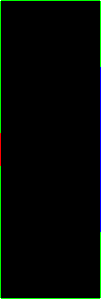
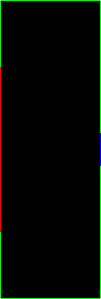
Add more model images

diff --git a/src/Main.cpp b/src/Main.cpp
@@ -33,17 +33,23 @@
  * DONE: (15) Create script "plot_cut.py" to plot the intensity profile along a cut. A straight line should do the job...
  * DONE: (16) In SparseComplexMatrix: Improve plotImage() to export directly a PNG image instead of a heavy PPM file.
  * DONE: (17) In SquareMesh: Create addImage(filename) to import PNG in order to facilitate the mesh creation...
+ * DONE: (18) Arthur 2025-09-04: For the paper, come back with the double waveguide case (with/without absorber), and compute the eigenstate profile
+ *       and the transmission eigenvalue distribution. Test changing the numerical aperture of each of the guides...
  * 
+ * TODO: Perform benchmark simulations (+ comparison with Usadel) for :
+ *      (A) Square waveguide 500x500, 
+ *      (B) Slab transmission 300x900, 
+ *      (C) Slab remission 300x900, 
+ *      (D) Find a double waveguide case with symmetry breaking enhancement... Definition of such system is unclear + Nothing to do with Radiant Field Theory...
  * 
- * (18) Arthur 2025-09-04: For the paper, come back with the double waveguide case (with/without absorber), and compute the eigenstate profile
- *      and the transmission eigenvalue distribution. Test changing the numerical aperture of each of the guides...
  * (19) Arthur 2025-09-04: What happens if we add a non-scattering region in the center of the waveguide ?
  *      We would have D(r) -> infty... What happens in the Usadel equation ?
  *      It would be funny to find a system with transmission eigenstate "opposite" to the average intensity (without shaping). 
  *      Such that maximum of the eigenstate corresponds to the minimum of the average intensity...
  * (20) Do no forget to implement the absorption (holabso != 0) using complex wavenumbers.
  *      Check that the implementation is correct, maybe using the Green function, or the distribution rho(T) (which should match RecurGreen's results)...
- * (21) In Main: Possibly add parallelized taskTransmissionOMP(). Maybe MPI is more relevant, given the memory size of reference 1 Mpx simulations...
+ * 
+ * DONE: (21) In Main: Possibly add parallelized taskTransmissionOMP(). Maybe MPI is more relevant, given the memory size of reference 1 Mpx simulations...
  * (22) Arthur 2025-09-04: For the paper, come back on the geometrical interpretation of the Q space and the (theta,eta) parametrization...
  */
 
@@ -689,24 +695,33 @@ int main(int argc, char** argv) {
     //SquareMesh mesh("model/double-guide-abso-shift-15_642x384.png");
     //SquareMesh mesh("model/maze_706x513.png");
     //SquareMesh mesh("model/slab-transmission-1_299x893.png");
-    SquareMesh mesh("model/ring-guide_700x700.png");
+    //SquareMesh mesh("model/ring-guide_700x700.png");
+    //SquareMesh mesh("model/arched-guide_1002x750.png");
+    //SquareMesh mesh("model/arched-guide-absorber_1002x750.png");
+    //SquareMesh mesh("model/slab-guide_302x900.png");
+    SquareMesh mesh("model/slab-transmission-1_302x902.png");
     
-    const double dscat = 8.5;  // Scattering depth, L/lscat. Default: dscat=8.5 (in order to get approximately dscat_eff=10).
+    const double dscat = 8.6;  // Scattering depth, L/lscat. Default: dscat=8.6 (in order to get approximately dscat_eff=10).
     const double dabso = 0.;   // Absorption depth, L/labso.
     
-    const std::string sysname = "ring-guide_700x700/dscat_" + to_string_prec(dscat, 6);
+    const std::string sysname = "slab-transmission-1_302x902/dscat_" + to_string_prec(dscat, 6);
     
     const double kh = 1.;  // Wavenumber times the lattice step. Recommended: kh = 1 -> lambda/h = 6.
-    const double holscat = dscat/700;
-    const double holabso = dabso/700;
+    const double holscat = dscat/300;
+    const double holabso = dabso/300;
     
     WaveSystem sys(sysname, mesh, kh, holscat, holabso);
     
-    RealMatrix trange(4, 2); // Defines the selected transmission intervals for computing the averaged profile of transmission eigenchannels:
-    trange(0, 0) = 0.975;  trange(0, 1) = 0.025;
-    trange(1, 0) = 0.900;  trange(1, 1) = 0.025;
-    trange(2, 0) = 0.800;  trange(2, 1) = 0.025;
-    trange(3, 0) = 0.100;  trange(3, 1) = 0.025;
+    RealMatrix trange(8, 2); // Defines the selected transmission intervals for computing the averaged profile of transmission eigenchannels:
+    //trange(0, 0) = 0.975;  trange(0, 1) = 0.025;
+    trange(0, 0) = 0.70;  trange(0, 1) = 0.010;
+    trange(1, 0) = 0.68;  trange(1, 1) = 0.010;
+    trange(2, 0) = 0.66;  trange(2, 1) = 0.010;
+    trange(3, 0) = 0.64;  trange(3, 1) = 0.010;
+    trange(4, 0) = 0.62;  trange(4, 1) = 0.010;
+    trange(5, 0) = 0.60;  trange(5, 1) = 0.010;
+    trange(6, 0) = 0.58;  trange(6, 1) = 0.010;
+    trange(7, 0) = 0.10;  trange(7, 1) = 0.005;
     
     Context ctx = {sys, trange};
     
@@ -722,11 +737,11 @@ int main(int argc, char** argv) {
     //ctx.sys.plotGreenFunction();
     //ctx.sys.plotTransmissionStates();
     
-    const int nseed = 1;  // Number of random realizations of the disorder used for averaging. Recommended for high quality: 10^4.
+    const int nseed = 500;  // Number of random realizations of the disorder used for averaging. Recommended for high quality: 10^4.
     const int nthread = 8; // Number of threads used in multithreading with OpenMP.
     
-    taskTransmissionSerial(ctx.sys, ctx.trange, nseed);
-    //taskTransmissionOMP(ctx.sys, ctx.trange, nseed, nthread);
+    //taskTransmissionSerial(ctx.sys, ctx.trange, nseed);
+    taskTransmissionOMP(ctx.sys, ctx.trange, nseed, nthread);
     //taskAverageIntensitySerial(ctx.sys, nseed);
     
     // Posterior checking operations (reusing available solution):
